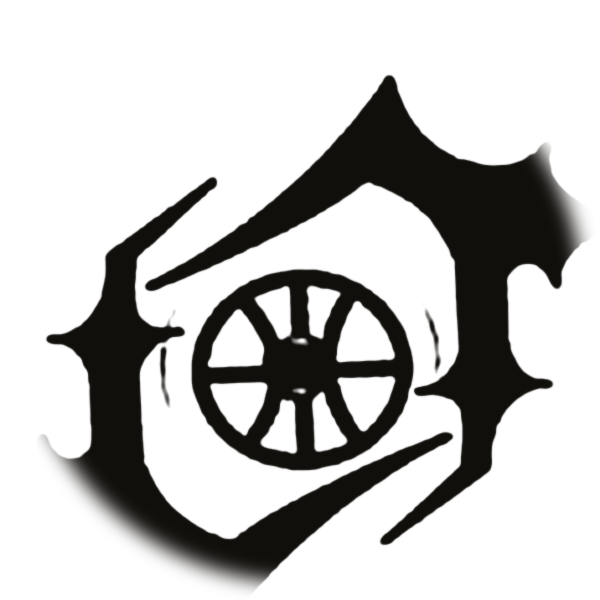
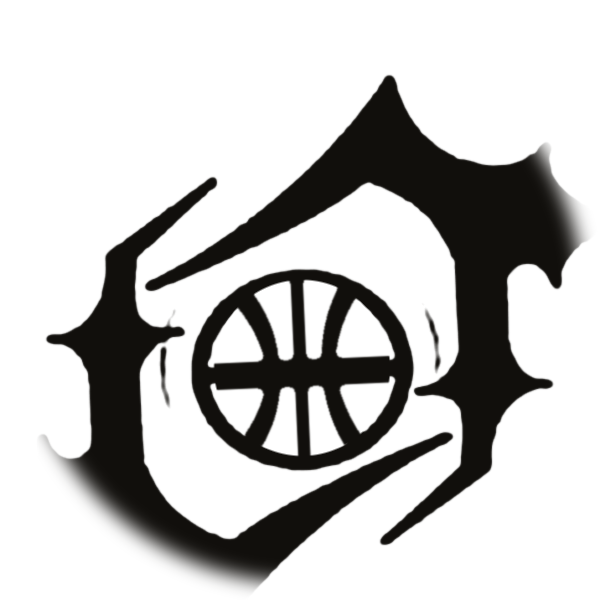
Icones des pistes : le ballon du signe original, sans le pion du disque
L embleme des pastilles venait de la photo de l etiquette et gardait au
centre le pion de la platine et ses reflets. Seul l interieur de l anneau
est refait, avec les lignes du ballon du signe original (trait vertical,
barre, deux coutures en arc), calees sur l anneau ; le reste de l icone
est intact.

Changed region(s): [[0.36, 0.45, 0.66, 0.78]]

diff --git a/index.html b/index.html
@@ -2245,7 +2245,7 @@ var A3 = [
 var ALBUMS = [
   { title:'Unmusique', by:'Lucy Bedroque', theme:'paper',
     disc:'assets/disc.webp?v=2', cover:'assets/cover.jpg', thumb:'assets/alb1.jpg',
-    art:'assets/emblem.webp', artFill:false,
+    art:'assets/emblem.webp?v=2', artFill:false,
     start:1,                                  /* G6 Anthem ouvre l album */
     tracks: A1_NAMES.map(function(name, i){
       return { name:name, audio:TRACK_AUDIO[i], bpm:TRACK_BPM[i] || 100,
